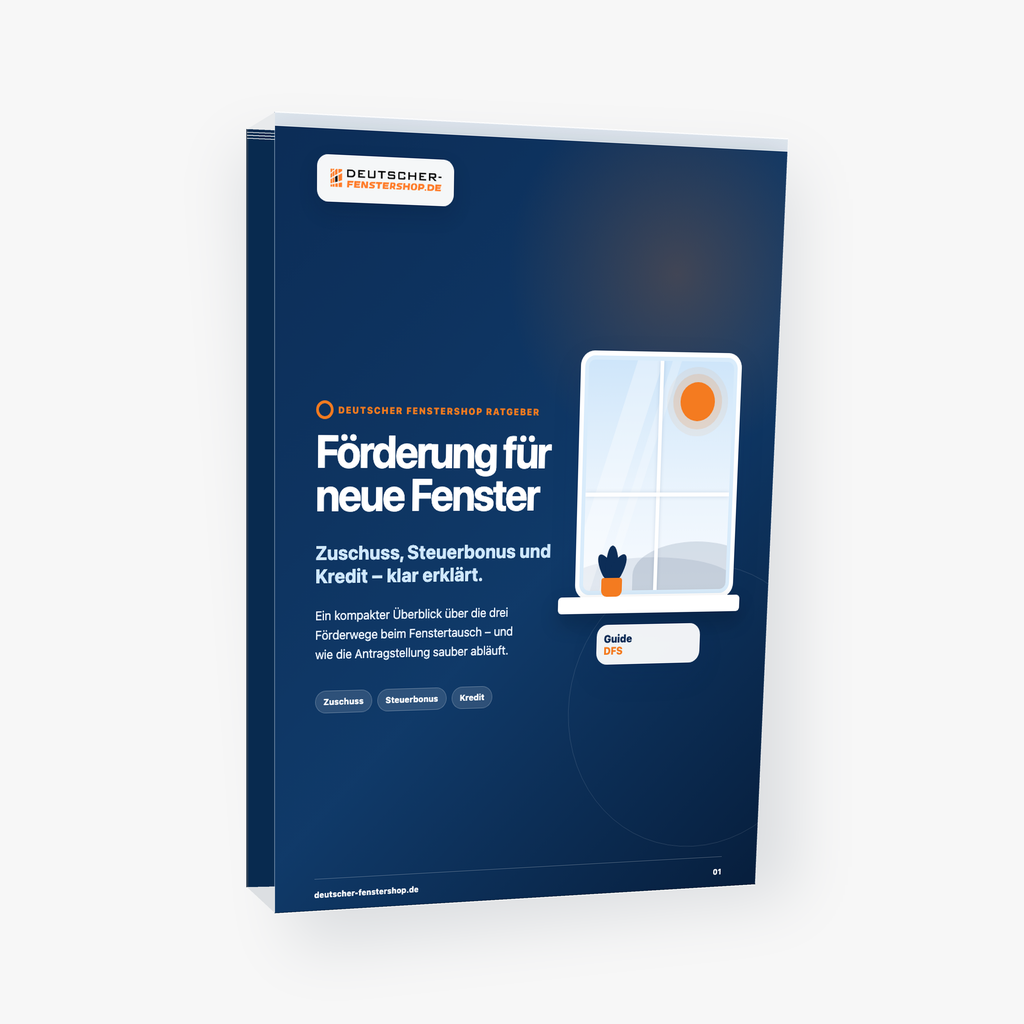
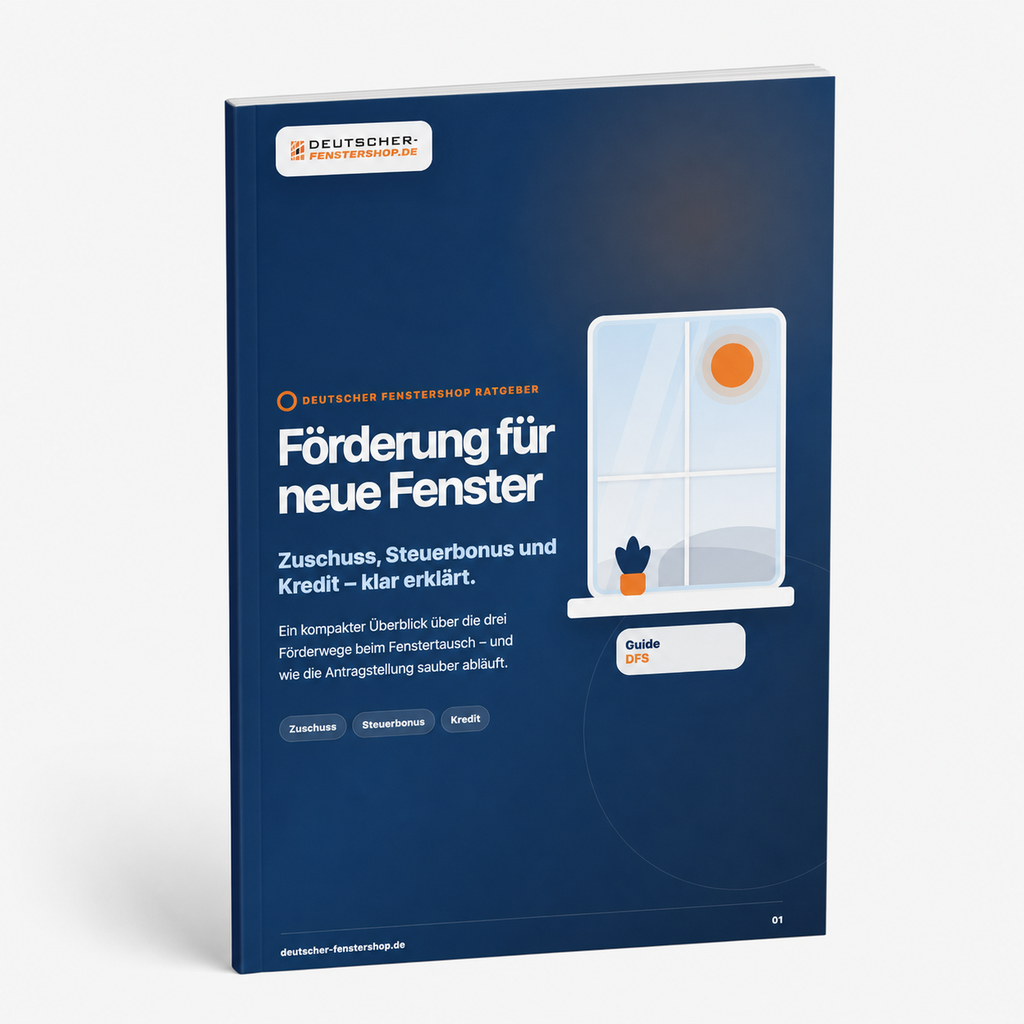
feat(ebook): Mockbild-Pipeline auf Codex ImageGen 2 mit JSON-Spec umgestellt (mockup-job.json statt Prompt-Text), Skill+README angepasst

Changed region(s): [[0.0938, 0.0625, 0.8125, 0.9688], [0.625, 0.4688, 0.6562, 0.5]]

diff --git a/.claude/skills/dfs-ebook/SKILL.md b/.claude/skills/dfs-ebook/SKILL.md
@@ -33,14 +33,16 @@ Jedes DFS-E-Book entsteht aus einer JSON-Config über `tools/ebook-maker/make-eb
 
 ## Mockbild (Buch-Vorschaubild für die Freebie-Seite)
 
-**Wird komplett von Codex generiert — in EINEM Durchgang. Nie Text nachträglich hinzufügen.**
+**Wird komplett von Codex ImageGen 2 generiert — in EINEM Durchgang durchs Bild-Generierungs-Tool. Nie Compositing, nie Text nachträglich.**
 
-1. Der Generator legt automatisch ab: `assets/cover.png` (echtes Cover als A4-Render) + `mockup-prompt.txt` (fertiger Prompt).
-2. Generieren: `codex exec -i public/ebooks/<slug>/assets/cover.png "$(cat public/ebooks/<slug>/mockup-prompt.txt)"`
+1. Der Generator legt automatisch ab: `assets/cover.png` (echtes Cover als A4-Render) + `mockup-job.json` (fertige JSON-Spec: Engine, Stil, harte Regeln, Zielablage).
+2. Generieren: `codex exec -i public/ebooks/<slug>/assets/cover.png - < public/ebooks/<slug>/mockup-job.json`
+   (Prompt via stdin — `-i` ist variadisch und frisst sonst das Prompt-Argument als Datei.)
 3. Ablage: `public/ebooks/<slug>/assets/mockup.png` (quadratisch 1024×1024).
 4. Sichtcheck: Titeltext im Mockbild muss **buchstabengleich** mit dem Cover sein. Weicht er ab → neu generieren, **nicht** nachbearbeiten.
+5. **Compositing-Check:** Meldet Codex etwas wie „Cover als Textur montiert" / „programmatisch zusammengesetzt" → Ergebnis verwerfen, neu generieren. Das Bild muss aus ImageGen 2 kommen (Roh-PNG unter `~/.codex/generated_images/<id>/`), erlaubt ist danach nur Skalieren auf 1024×1024.
 
-Verboten: Text-Overlays, Compositing, Badges/Sticker, Canva-Nachbearbeitung, Prompt frei umformulieren. Der Prompt kommt aus dem Generator — Textquelle ist ausschließlich das mitgegebene Cover.
+Verboten: Text-Overlays, Compositing/Textur-Mapping (sharp/Canvas), Badges/Sticker, Canva-Nachbearbeitung, JSON-Spec frei umformulieren. Die Spec kommt aus dem Generator — Textquelle ist ausschließlich das mitgegebene Cover.
 
 ## Inhaltsregeln (nicht automatisierbar — selbst prüfen)
 

diff --git a/tools/ebook-maker/README.md b/tools/ebook-maker/README.md
@@ -58,13 +58,13 @@ Der Generator prüft die Config hart und bricht mit klaren Fehlermeldungen ab (E
 
 ## Mockbild
 
-Der Generator erzeugt pro Lauf zusätzlich `assets/cover.png` (echtes Cover, A4-Render) und `mockup-prompt.txt`. Das Buch-Vorschaubild entsteht daraus komplett per Codex in einem Durchgang:
+Der Generator erzeugt pro Lauf zusätzlich `assets/cover.png` (echtes Cover, A4-Render) und `mockup-job.json` (JSON-Spec für Codex ImageGen 2). Das Buch-Vorschaubild entsteht daraus komplett per ImageGen 2 in einem Durchgang:
 
 ```bash
-codex exec -i public/ebooks/<slug>/assets/cover.png "$(cat public/ebooks/<slug>/mockup-prompt.txt)"
+codex exec -i public/ebooks/<slug>/assets/cover.png - < public/ebooks/<slug>/mockup-job.json
 ```
 
-Regeln: Text kommt ausschließlich aus dem mitgegebenen Cover — nie nachträglich Text, Overlays oder Badges ergänzen. Abweichender Titeltext = neu generieren, nicht nachbearbeiten. Details: `.claude/skills/dfs-ebook/SKILL.md`.
+Regeln: Das Bild muss durchs Bild-Generierungs-Tool entstehen — Compositing/Textur-Mapping (sharp/Canvas) ist verboten, nur Skalieren auf 1024×1024 erlaubt. Text kommt ausschließlich aus dem mitgegebenen Cover — nie nachträglich Text, Overlays oder Badges ergänzen. Abweichender Titeltext = neu generieren, nicht nachbearbeiten. Details: `.claude/skills/dfs-ebook/SKILL.md`.
 
 Regeln für Agenten: siehe `.claude/skills/dfs-ebook/SKILL.md`.
 
